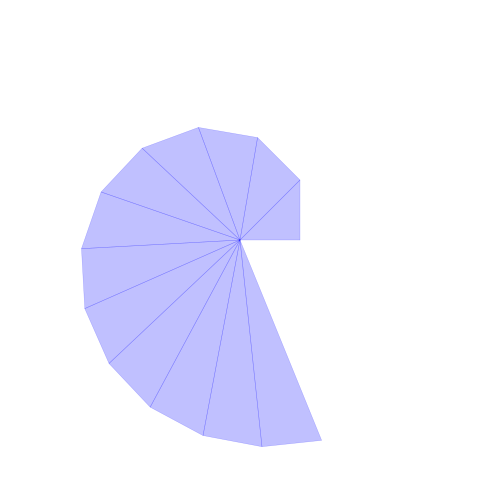
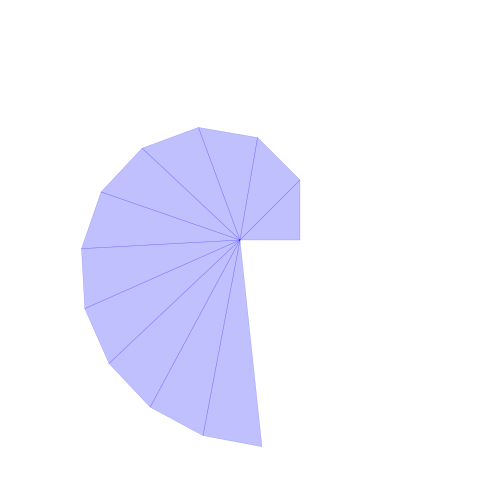
Use addition operator (mathlib-fp v1.4.0)

Changed region(s): [[0.5, 0.5, 0.6875, 0.9375]]

diff --git a/theodorus-spiral/README.md b/theodorus-spiral/README.md
@@ -3,3 +3,17 @@
 Example for the [mathlib-fp](https://github.com/ikelaiah/mathlib-fp) library.
 
 ![Image](theodorus.png)
+
+| Vector coordinates | Length | Square root |
+| --- | --- | --- |
+| <1, 1> | 1.4142 | √2 |
+| <0.292893, 1.70711> | 1.7321 | √3 |
+| <-0.692705, 1.87621> | 2.0000 | √4 |
+| <-1.63081, 1.52986> | 2.2361 | √5 |
+| <-2.31498, 0.800536> | 2.4495 | √6 |
+| <-2.6418, -0.144552> | 2.6458 | √7 |
+| <-2.58716, -1.14306> | 2.8284 | √8 |
+| <-2.18303, -2.05776> | 3.0000 | √9 |
+| <-1.49711, -2.78544> | 3.1623 | √10 |
+| <-0.61628, -3.25886> | 3.3166 | √11 |
+| <0.366304, -3.44468> | 3.4641 | √12 |
